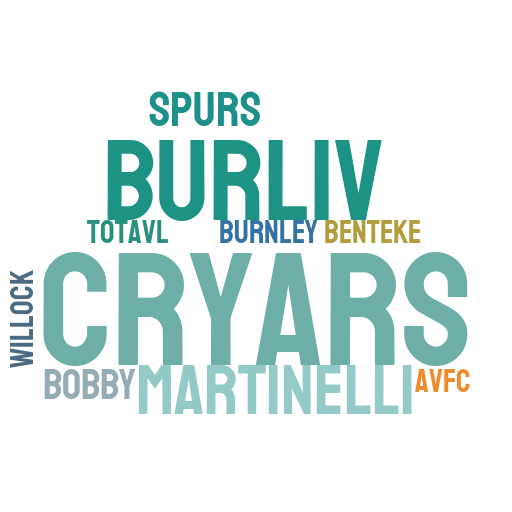
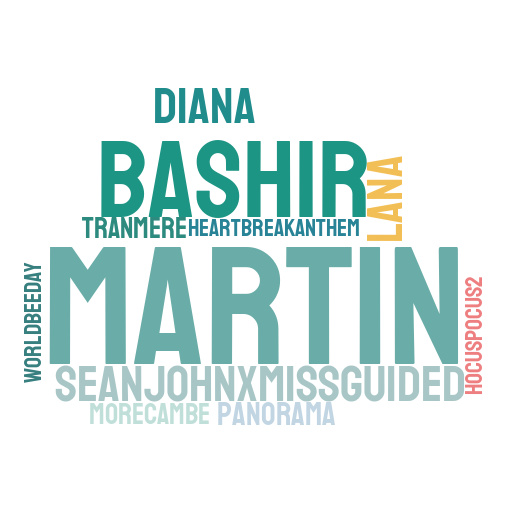
added a little user input

Changed region(s): [[0.0, 0.1562, 0.9375, 0.8438]]

diff --git a/Python/twitterAPI4.py b/Python/twitterAPI4.py
@@ -9,9 +9,6 @@ import json
 import matplotlib.pyplot as plt
 import stylecloud
 import time
-import sys
-import keyboard
-
 # the .py we made
 import t
 
@@ -21,7 +18,6 @@ class TwitterClient():
     def __init__(self, twitter_user=None):
         self.auth = TwitterAuthenticator().authenticate_twitter_app()
         self.twitter_client = API(self.auth)
-
         self.twitter_user = twitter_user
 
     def get_twitter_client_api(self):
@@ -67,12 +63,9 @@ class TwitterStreamer():
     def stream_tweets(self, fetched_tweets_filename, hash_tag_list):
         # calls the listener to start to create objects
         listener = TwitterListener(fetched_tweets_filename)
-
         auth = self.twitter_authenticator.authenticate_twitter_app()
-
         # uses all the credentials
         stream = Stream(auth, listener)
-
         # this is where we specify what we are looking for in list form
         stream.filter(track=hash_tag_list)
 
@@ -109,7 +102,6 @@ class TweetAnalyser():
     # functionality for analyzing and catagorizing content from tweets
     def tweets_to_data_frame(self, tweets):
         df = pd.DataFrame(data=[tweet.text for tweet in tweets], columns=['Tweets'])
-
         # this creates a numpy array with the heading being each tweets tweet and id that its just
         # for looping through the tweets list
         # this is how we add new columns onto our table
@@ -125,19 +117,13 @@ class TweetAnalyser():
 
 # runs the program
 if __name__ == "__main__":
+    twitter_client = TwitterClient()
+    tweets_analyzer = TweetAnalyser()
+    api = twitter_client.get_twitter_client_api()
+
     timer_counter = 0
-
     while True:
-        twitter_client = TwitterClient()
-        tweets_analyzer = TweetAnalyser()
-
-        api = twitter_client.get_twitter_client_api()
-
-        #tweets = api.user_timeline(screen_name="boohoo", count=200)
         trends = api.trends_place(23424975)
-        trends_string = json.dumps(trends)
-        data = json.loads(trends_string)
-
         trending_list = []
 
         if timer_counter == 0 or timer_counter == 10:
@@ -146,9 +132,7 @@ if __name__ == "__main__":
                 #print(trends[0]['trends'][i]['name'])
                 trending_list.append(trends[0]['trends'][i]['name'])
                 f10.write(str(trending_list[i]) + "\r")
-
             f10.close()
-
             word_cloud = stylecloud.gen_stylecloud(file_path='text10.txt',
                                                    icon_name='fas fa-cloud',
                                                    output_name='text_cloud10.png',
@@ -165,7 +149,6 @@ if __name__ == "__main__":
                 f30.write(str(trending_list[i]) + "\r")
 
             f30.close()
-
             word_cloud = stylecloud.gen_stylecloud(file_path='text30.txt',
                                                    icon_name='fas fa-cloud',
                                                    output_name='text_cloud30.png',
@@ -181,9 +164,7 @@ if __name__ == "__main__":
                 #print(trends[0]['trends'][i]['name'])
                 trending_list.append(trends[0]['trends'][i]['name'])
                 f60.write(str(trending_list[i]) + "\r")
-
             f60.close()
-
             word_cloud = stylecloud.gen_stylecloud(file_path='text60.txt',
                                                    icon_name='fas fa-cloud',
                                                    output_name='text_cloud50.png',
@@ -192,7 +173,29 @@ if __name__ == "__main__":
                                                    gradient='horizontal')
             print("text60.txt and text_cloud50.png was created")
 
-        print("timer in mins: " + str(timer_counter))
+        if timer_counter == 0:
+            #print(trends[0]['trends'])
+            #print(trends[0]['trends'][1])
+            user_amount = input("please input the amount of trending topics you would like to see (max 50): ")
+
+            trending_tweets_with_numbers = []
+            for i in range(0, int(user_amount)):
+                trending_tweets_with_numbers.append(str(trends[0]['trends'][i]['name']) +
+                                                    " | " +
+                                                    str(trends[0]['trends'][i]['tweet_volume']))
+                #print(str(trends[0]['trends'][i]['name']) + " | " + str(trends[0]['trends'][i]['tweet_volume']))
+                print(trending_tweets_with_numbers[i])
+            tweets = api.user_timeline(screen_name="bbcBreaking", count=200)
+            # df means data frame
+            df = tweets_analyzer.tweets_to_data_frame(tweets)
+            time_retweets = pd.Series(data=df['retweet count'].values, index=df['date'])
+            time_retweets.plot(figsize=(10, 4), color='red', label="retweets", legend=True)
+            time_fav_count = pd.Series(data=df['likes'].values, index=df['date'])
+            time_fav_count.plot(figsize=(10, 4), color='blue', label="likes", legend=True)
+            plt.savefig("bbcBreakingFigure.png")
+            print("timer started to update wordclouds (10mins, 30mins and 60mins)")
+
+        print("timer elapsed: " + str(timer_counter))
         time.sleep(60)
         timer_counter = timer_counter+1
 
@@ -200,18 +203,16 @@ if __name__ == "__main__":
             timer_counter = 1
 
 
-    # df means data frame
-    #df = tweets_analyzer.tweets_to_data_frame(tweets)
-
+# ____________________ potential coding options __________________________________________________________________
 
     # get the average length overall from the tweets
-    #print(np.mean(df['len']))
+    # print(np.mean(df['len']))
 
     # get number of likes for the most liked tweet
-    #print(np.max(df['likes']))
+    # print(np.max(df['likes']))
 
     # get the most retweets
-    #print(np.max(df['retweet count']))
+    # print(np.max(df['retweet count']))
 
     # time series
     # time_likes = pd.Series(data=df['fav count'].values, index=df['date'])
@@ -221,13 +222,6 @@ if __name__ == "__main__":
     # time_retweets = pd.Series(data=df['retweet count'].values, index=df['date'])
     # time_retweets.plot(figsize=(16, 4), color='red')
     # plt.show()
-
-    #time_retweets = pd.Series(data=df['retweet count'].values, index=df['date'])
-    #time_retweets.plot(figsize=(16, 4), color='red', label="retweets", legend=True)
-    #time_fav_count = pd.Series(data=df['likes'].values, index=df['date'])
-    #time_fav_count.plot(figsize=(16, 4), color='blue', label="likes", legend=True)
-    #plt.show()
-
 
     # this command gives a list of attributes each tweet captured has that we can call in TweetAnalyser()
     # print(dir(tweets[0]))
